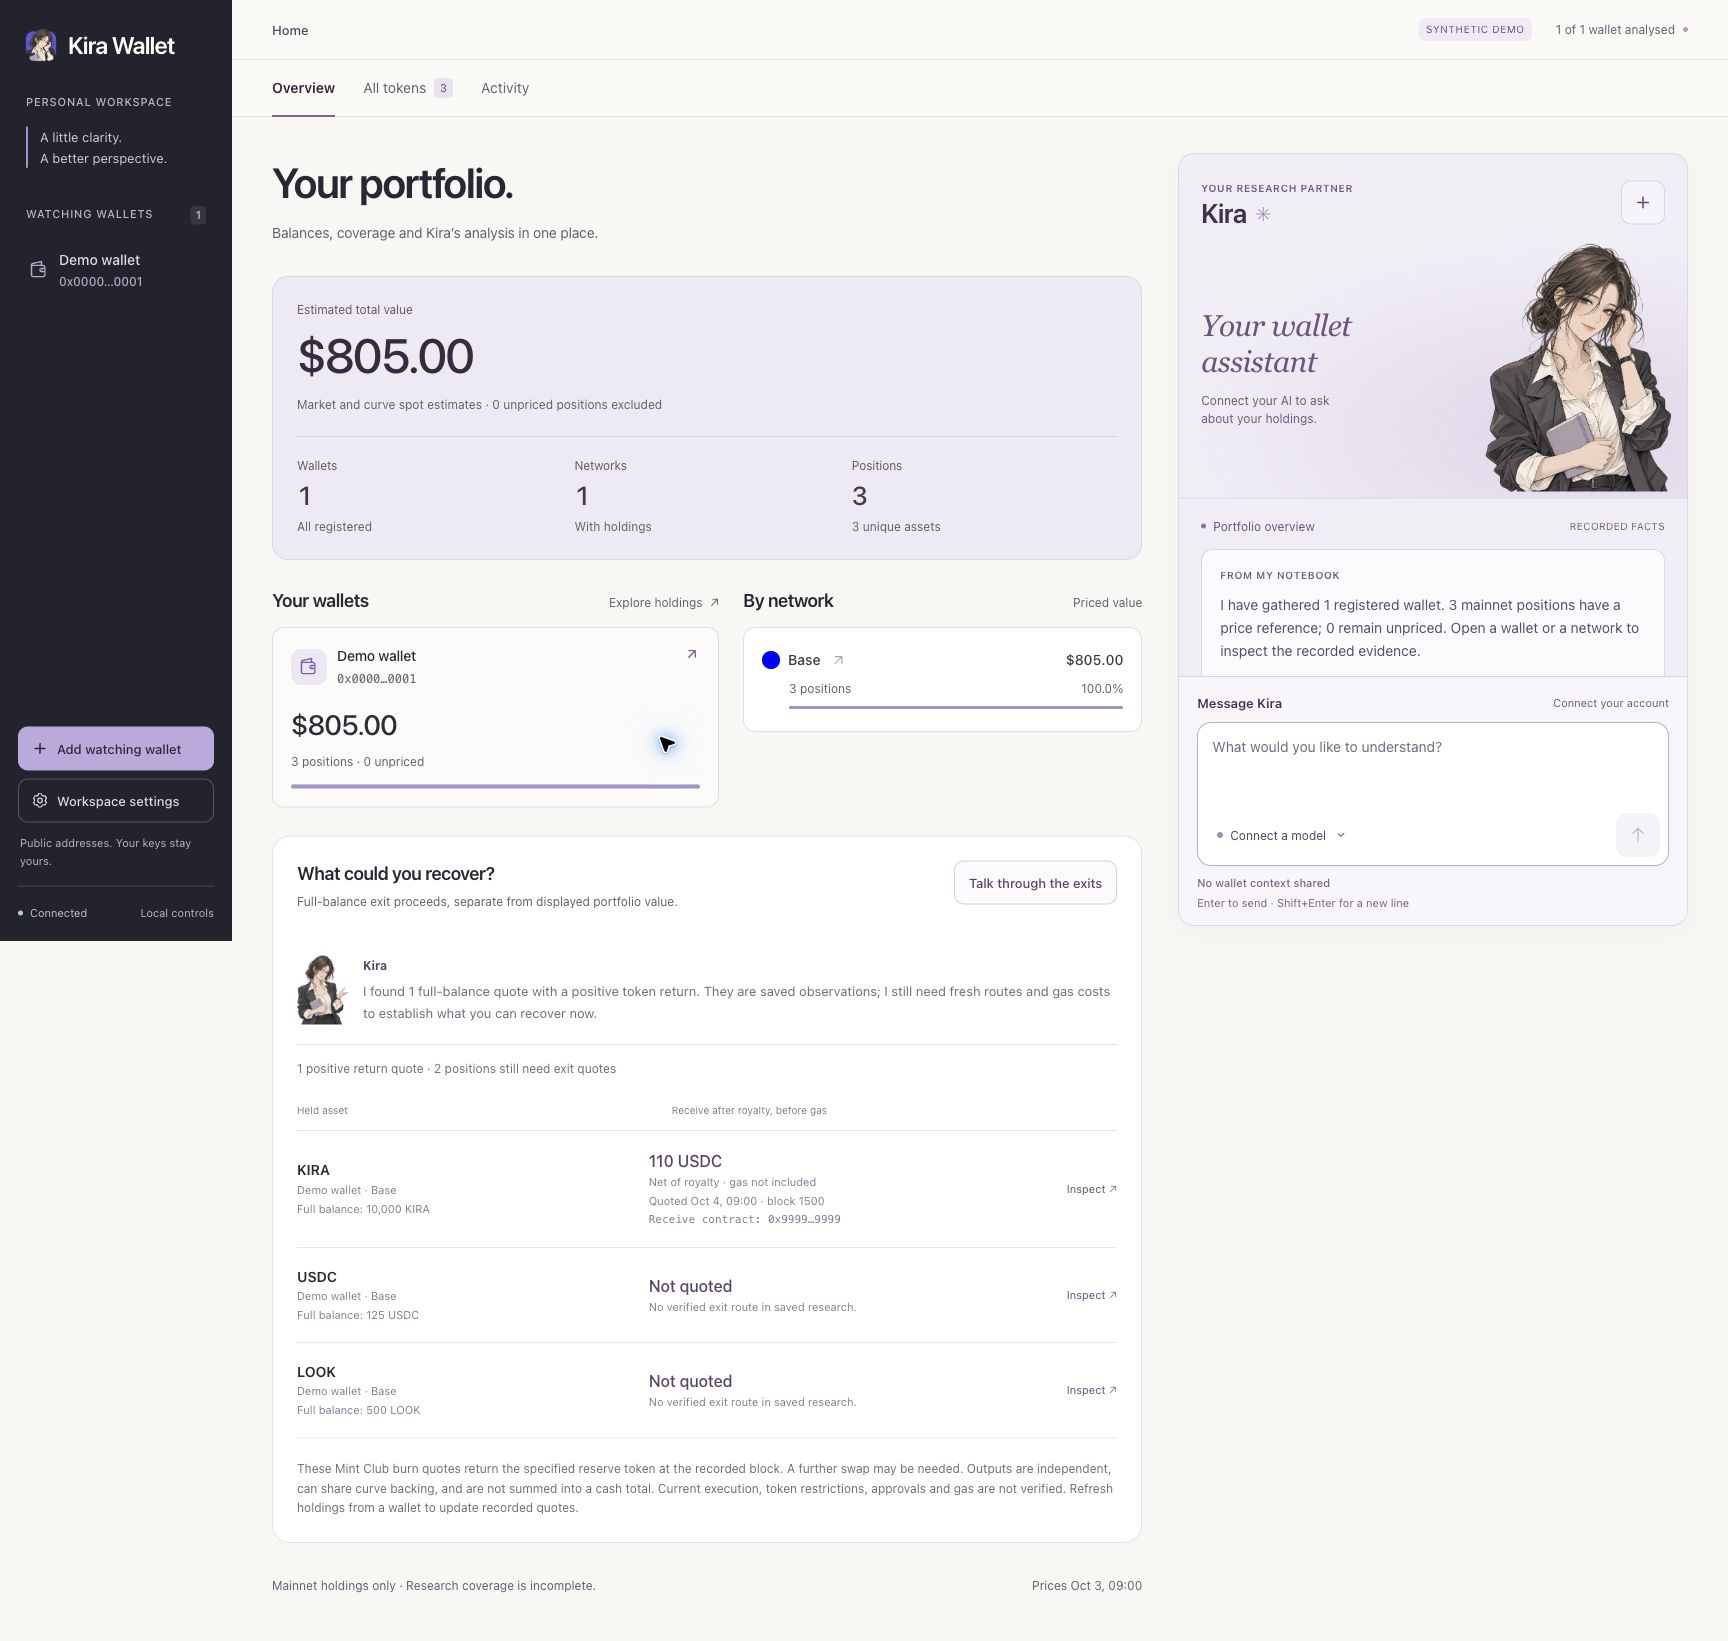
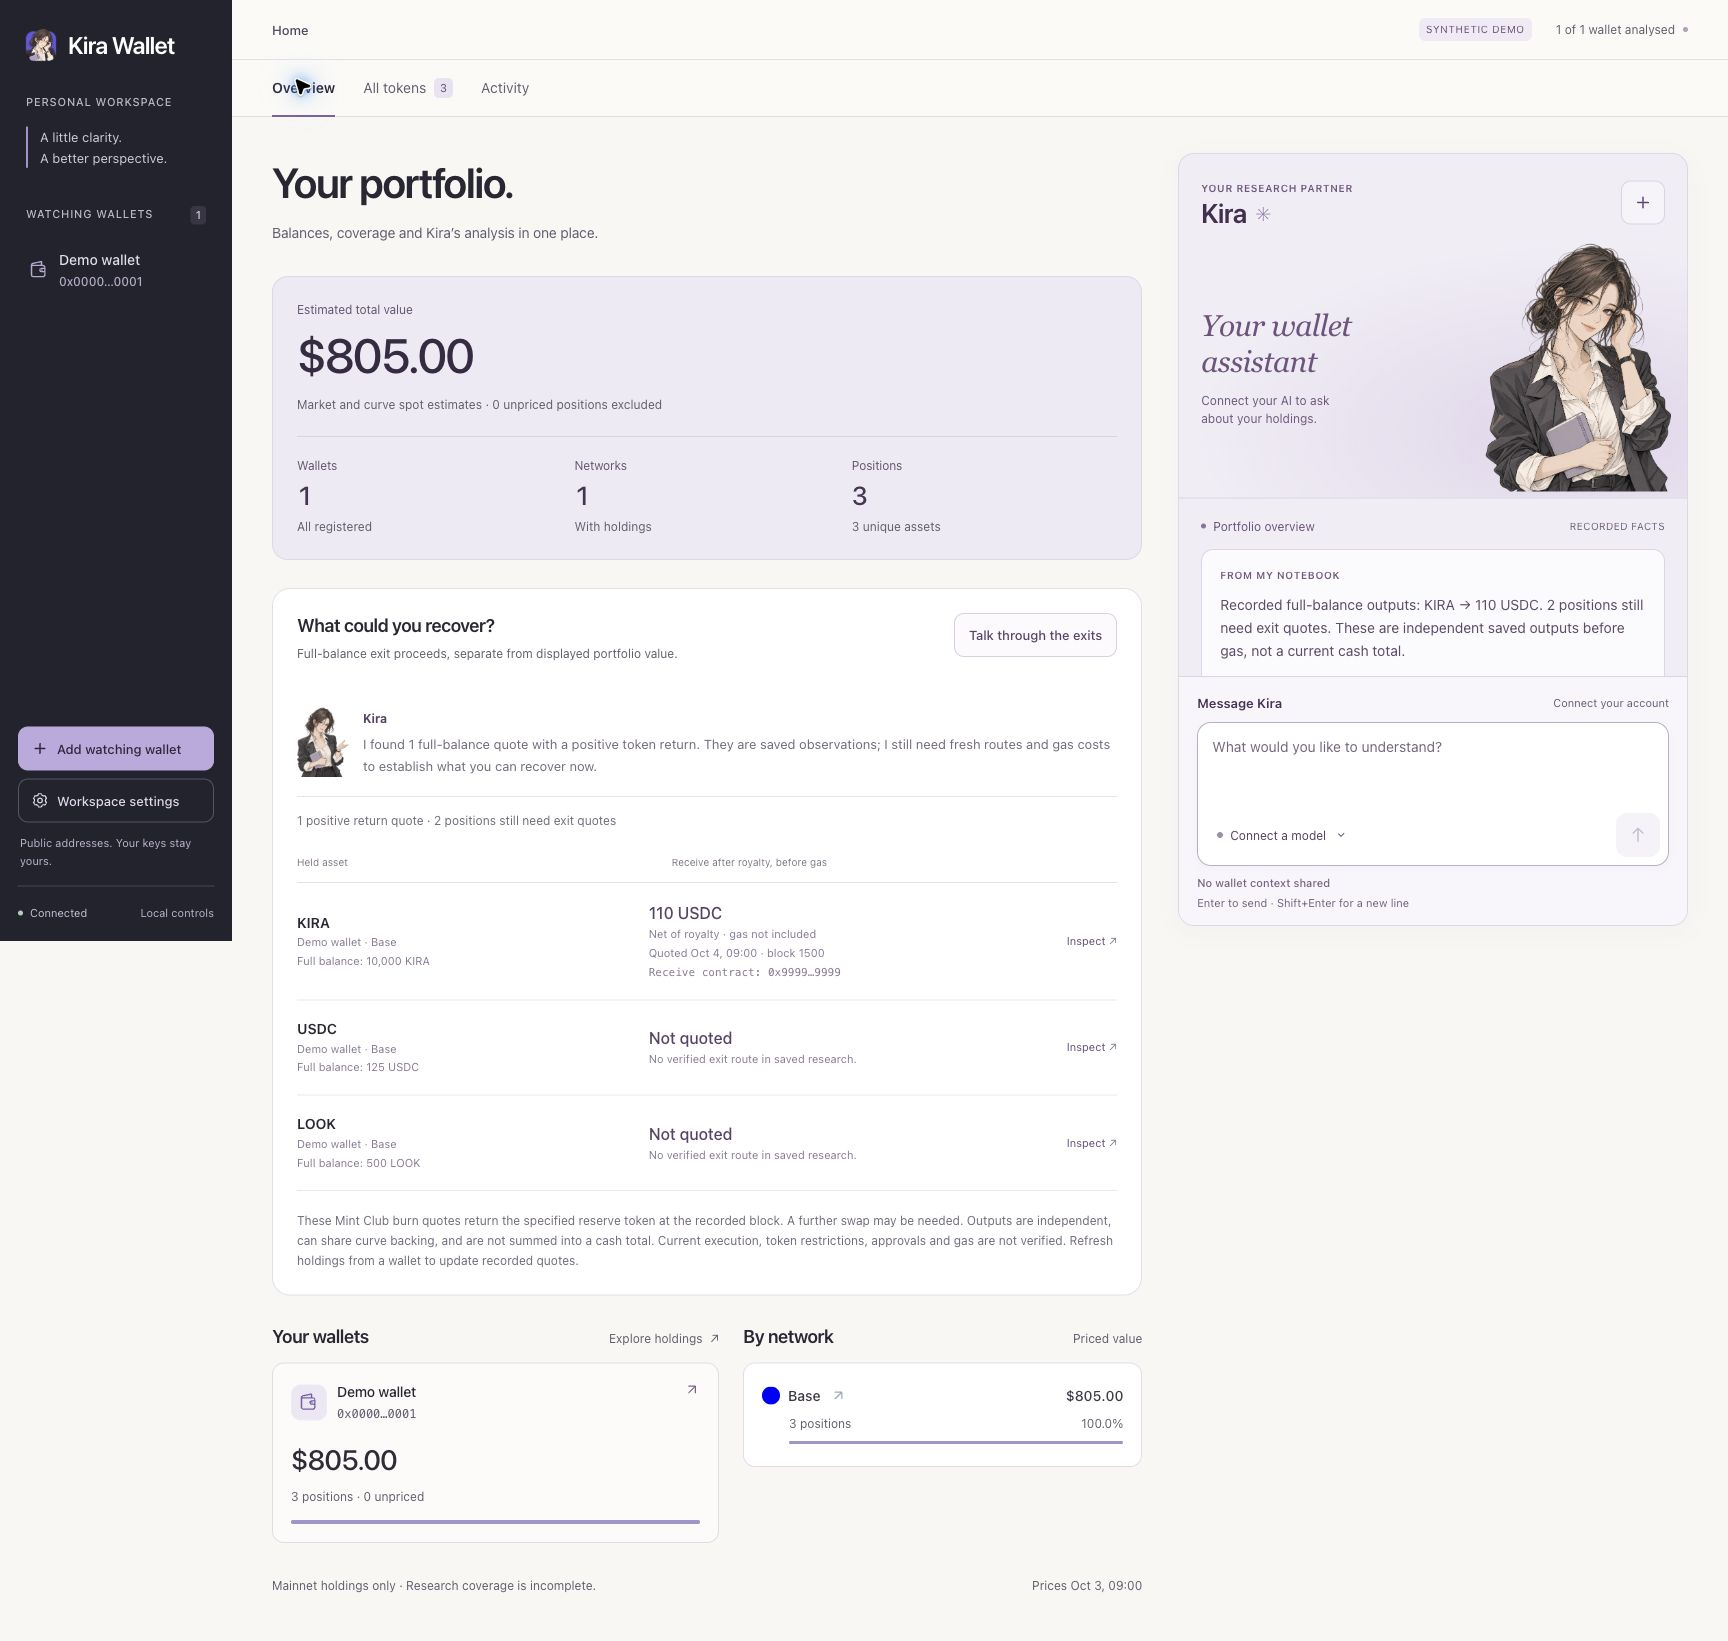
Recover setup readiness and preserve exact exit amounts on narrow screens

diff --git a/viewer/static/report.js b/viewer/static/report.js
@@ -1,5 +1,5 @@
 'use strict';
-let setupReadiness=null,setupLoading=false,reportLimit=6;
+let setupReadiness=null,setupLoading=false,setupUnavailable=false,setupRetryAfter=0,reportLimit=6;
 function exitRow(position){
   const a=position.asset,w=position.wallet,q=a.exit_quote;
   const network=state.details.networks.find(n=>n.id===a.chain_id)?.name||'Chain '+a.chain_id;
@@ -25,7 +25,7 @@ function renderSetupPath() {
   $('home-empty').hidden=wallet||!$('setup-path').hidden;
   $('setup-path').innerHTML='<details '+(!wallet?'open':'')+'><summary>'+ (wallet?'Finish your setup':'Set up your first wallet')+'</summary><div class="section-heading"><h2>'+ (wallet?'Finish your setup':'Start with one wallet')+'</h2><span class="section-note">Your keys stay yours</span></div><ol class="setup-checklist">'+
     '<li><span class="setup-check">'+(wallet?'✓':'1')+'</span><div><strong>Add a public wallet</strong><p>'+(wallet?'Saved locally.':'Paste an EVM address or choose a browser wallet. No signature or seed phrase.')+'</p></div><button class="quiet-button" id="setup-wallet" type="button">'+(wallet?'Add another':'Add wallet')+'</button></li>'+
-    '<li><span class="setup-check">'+(discovery?'✓':'2')+'</span><div><strong>Connect token discovery</strong><p>'+(discovery?'Indexer key detected. Actual chain coverage is confirmed by research results.':configured?'Indexer selected, but its key is unavailable. Use a private environment reference.':'Public RPC checks known assets. Connect an indexer for broader ERC20 discovery, or continue with limited coverage.')+'</p></div><button class="quiet-button" id="setup-discovery" type="button">Review connection</button></li>'+
+    '<li><span class="setup-check">'+(discovery?'✓':'2')+'</span><div><strong>Connect token discovery</strong><p>'+(!setupReadiness?(setupUnavailable?'Could not check the connection. Retrying…':'Checking the discovery connection…'):discovery?'Indexer key detected. Actual chain coverage is confirmed by research results.':configured?'Indexer selected, but its key is unavailable. Use a private environment reference.':'Public RPC checks known assets. Connect an indexer for broader ERC20 discovery, or continue with limited coverage.')+'</p></div><button class="quiet-button" id="setup-discovery" type="button">Review connection</button></li>'+
     '<li><span class="setup-check">'+(analysed?'✓':'3')+'</span><div><strong>Read your first report</strong><p>'+(analysed?'Saved balances, prices and coverage are ready.':'Adding a wallet starts one explicit research job. Follow its progress in Activity; gaps are shown in the report.')+'</p></div><a class="quiet-button" href="#/activity">View Activity</a></li>'+
     '<li><span class="setup-check">'+(ai?'✓':'4')+'</span><div><strong>Connect your AI <small>optional</small></strong><p>'+(ai?'Connected. Wallet context still follows your explicit permissions.':'Use your installed Codex or Claude account when you are ready. Tracking works without it.')+'</p></div><button class="quiet-button" id="setup-ai" type="button">'+(ai?'Permissions':'Connect AI')+'</button></li></ol></details>';
   $('setup-wallet').addEventListener('click',openAdd);
@@ -33,10 +33,10 @@ function renderSetupPath() {
   $('setup-ai').addEventListener('click',openAgent);
 }
 async function loadSetupReadiness(){
-  if(setupLoading||!localSession?.controls)return;setupLoading=true;
-  try{setupReadiness=await localAPI('/api/onboarding');renderSetupPath();}catch{/* Existing reconnect handling owns session recovery. */}finally{setupLoading=false;}
+  if(setupLoading||!localSession?.controls)return false;setupLoading=true;
+  try{setupReadiness=await localAPI('/api/onboarding');setupUnavailable=false;setupRetryAfter=0;renderSetupPath();return true;}catch{setupReadiness=null;setupUnavailable=true;setupRetryAfter=Date.now()+5000;renderSetupPath();return false;}finally{setupLoading=false;}
 }
 window.addEventListener('hashchange',()=>{if(selectedView==='home')renderReport();});
-const setupStartup=setInterval(()=>{if(state&&localSession?.controls){loadSetupReadiness();renderReport();clearInterval(setupStartup);}},1000);
+const setupStartup=setInterval(async()=>{if(state&&localSession?.controls&&!setupReadiness&&Date.now()>=setupRetryAfter){await loadSetupReadiness();renderReport();}},1000);
 
 document.addEventListener('visibilitychange',()=>document.body.classList.toggle('page-hidden',document.hidden));

diff --git a/viewer/static/app.js b/viewer/static/app.js
@@ -183,7 +183,7 @@ function accountCard(row,token){
   const a=row.asset,value=token?a?.value_usd:row.value_usd;
   const meta=token?(a?quantity(a.balance)+' '+escapeHTML(token.symbol):escapeHTML(row.status)):row.position_count+' positions · '+row.unpriced_count+' unpriced';
   const shareValue=token?share(value,token.value_usd):null;
-  const quote=a?.burn_quote?.net_refund!=null?`<div class="account-quote"><span>Recorded burn refund</span><strong>${quantity(a.burn_quote.net_refund)} ${escapeHTML(a.curve_reserve?.symbol||'')}</strong><small>At holdings analysis · net of creator royalty · excludes gas</small></div>`:'';
+  const quote=a?.exit_quote?`<div class="account-quote"><span>Recorded full-balance burn output</span><strong>${escapeHTML(a.exit_quote.output_amount)} ${escapeHTML(a.exit_quote.output_symbol)}</strong><small>${stamp(a.exit_quote.observed_at)} · block ${escapeHTML(a.exit_quote.block_number)} · net of royalty · excludes gas</small></div>`:'';
   const price=token?.environment==='testnet'?null:a?.price?.usd;
   return `<article class="account-card"><a class="account-card-heading" href="#/wallet/${escapeHTML(row.key)}"><span class="card-wallet-icon">${walletGlyph}</span><span class="wallet-card-identity"><strong>${escapeHTML(row.name)}</strong><span>${escapeHTML(shortAddress(row.address))}</span></span><span class="card-arrow" aria-hidden="true">${arrowGlyph}</span></a><div class="account-value">${money(value)}</div><div class="account-meta">${meta}</div>${token&&a?`<dl class="account-facts"><div><dt>Recorded price</dt><dd>${unitPrice(price)} <span>${escapeHTML(token.environment==='testnet'?'Testnet':a.price?.basis||'No price')}</span></dd></div><div><dt>Share of priced holdings</dt><dd>${shareValue}</dd></div></dl>${quote}`:''}<div class="account-footnote"><span>${escapeHTML(row.coverage)}</span><span>Analysis ${stamp(row.analysed_at)}</span>${token&&a?`<span>Price ${a.price?.observed_at?stamp(a.price.observed_at):'not recorded'}</span>`:''}</div></article>`;
 }

diff --git a/viewer/static/workspace.js b/viewer/static/workspace.js
@@ -71,6 +71,10 @@ function renderBriefing() {
     const selected = selectedView === 'wallet' ? [currentWallet()].filter(Boolean) : state.wallets;
     const missing = selected.flatMap(w => w.chains.filter(c => c.environment === 'mainnet' && (!c.complete || !c.rpc_available)).map(c => w.name + ' · ' + c.name + (!c.rpc_available ? ': RPC unavailable' : ': incomplete discovery')));
     $('kira-note-text').textContent = missing.length ? 'These recorded coverage gaps need a closer look: ' + missing.slice(0, 6).join('; ') + (missing.length > 6 ? '; and ' + (missing.length - 6) + ' more.' : '.') + ' Missing data does not mean zero holdings.' : 'No mainnet coverage gaps are flagged in this recorded view. This does not prove that every possible token has been discovered.';
+  } else if (selectedView === 'home' && state.wallets.length) {
+    const exits = KiraView.report(state);
+    const returns = exits.positive.slice(0, 3).map(p => p.asset.symbol + ' → ' + p.asset.exit_quote.output_amount + ' ' + p.asset.exit_quote.output_symbol);
+    $('kira-note-text').textContent = (returns.length ? 'Recorded full-balance outputs: ' + returns.join('; ') + '. ' : 'No full-balance positive exit quotes are recorded yet. ') + exits.unquoted.length + ' positions still need exit quotes. These are independent saved outputs before gas, not a current cash total.';
   } else if (selectedView === 'tokens') {
     const tokens = state.details.tokens.filter(t => t.environment !== 'testnet');
     $('kira-note-text').textContent = `There are ${tokens.length} recorded mainnet tokens. ${tokens.filter(t => t.value_usd == null || t.unpriced_count > 0).length} have unpriced amounts. I keep tokens on different networks separate, even when their symbols match.`;

diff --git a/viewer/static/report.css b/viewer/static/report.css
@@ -1,7 +1,7 @@
 .brand-wordmark{font-size:24px;white-space:nowrap;line-height:1.2;letter-spacing:-.035em}
 .brand{gap:10px}
 .brand-logo{width:34px;height:34px}
-.analysis-report{margin-top:28px;padding:24px;border:1px solid var(--line,#ddd5e5);border-radius:18px;background:#fff}
+.analysis-report{margin:28px 0;padding:24px;border:1px solid var(--line,#ddd5e5);border-radius:18px;background:#fff}
 .analysis-report .section-heading{align-items:flex-start}
 .analysis-report .section-note{display:block;margin-top:6px}
 .report-note{font-size:12px;line-height:1.65;color:#756b7f;margin:20px 0 0}
@@ -68,7 +68,7 @@ body.page-hidden .kira-scene img{animation:none!important}
 .exit-kira p{font-size:13px;line-height:1.7;margin:0;color:#756b7f}
 .exit-kira strong{display:block;color:#584366;font-size:12px;margin-bottom:4px}
 .exit-summary{font-size:12px;color:#756b7f;padding:14px 0;border-top:1px solid #e6e0eb}
-.exit-columns,.exit-row{display:grid;grid-template-columns:1fr 1.2fr auto;gap:20px}
+.exit-columns,.exit-row{display:grid;grid-template-columns:minmax(0,1fr) minmax(0,1.2fr) auto;gap:20px}
 .exit-columns{padding:12px 0;font-size:10px;color:#86798d;border-bottom:1px solid #e6e0eb}
 .exit-row{padding:18px 0;border-bottom:1px solid #ece7ef;align-items:center}
 .exit-row small,.exit-row span{display:block;font-size:11px;line-height:1.7;color:#8b7b95}
@@ -85,3 +85,6 @@ body.page-hidden .kira-scene img{animation:none!important}
 .exit-kira{align-items:flex-start}
 .exit-kira img{width:42px;height:60px}
 }
+
+.exit-row>div{min-width:0;overflow-wrap:anywhere}.exit-receive strong{overflow-wrap:anywhere}
+.account-quote strong{overflow-wrap:anywhere}

diff --git a/viewer/static/index.html b/viewer/static/index.html
@@ -39,11 +39,11 @@
           <section id="setup-path" class="setup-path" aria-label="Wallet setup checklist" hidden></section>
           <div id="home-empty" class="empty" hidden><img src="/kira-logo.png" width="64" height="64" alt=""><h3>Your notebook starts with a wallet.</h3><p>Use a public EVM address and a name you recognise. You keep your keys.</p><button id="empty-add-wallet" class="primary-button" hidden>Add your first wallet</button></div>
           <div id="home-details">
+            <section id="home-report" class="analysis-report" aria-label="Recorded portfolio analysis"></section>
             <div class="dashboard-grid">
               <section class="dashboard-panel" aria-labelledby="home-wallets-title"><div class="section-heading"><h2 id="home-wallets-title">Your wallets</h2><span class="section-note">Explore holdings <span aria-hidden="true">↗</span></span></div><div id="wallet-cards" class="wallet-cards"></div></section>
               <section class="dashboard-panel" aria-labelledby="home-networks-title"><div class="section-heading"><h2 id="home-networks-title">By network</h2><span class="section-note">Priced value</span></div><div id="network-allocation" class="network-allocation"></div></section>
             </div>
-            <section id="home-report" class="analysis-report" aria-label="Recorded portfolio analysis"></section>
           </div>
           <footer class="page-footer home-footer"><span id="home-coverage-note"></span><span id="home-price-time"></span></footer>
         </div>

diff --git a/site/proposal.js b/site/proposal.js
@@ -1,7 +1,7 @@
 'use strict';
 const scenes=[
  {title:'A return, not a sticker price.',detail:'The full-balance burn quote returns USDC. Another token still needs a sell route.',line:'The recorded quote returns 110 USDC before gas. That is different from a token’s displayed market value.',context:'Sample: full-balance burn quote'},
- {title:'A price is not an exit.',detail:'The displayed price does not tell us what a full sale returns. This token still needs an exact sell quote and gas estimate.',line:'This token has a market price, but I cannot confirm its recoverable value. I’ll keep that difference visible.',context:'Sample: unquoted exit'},
+ {title:'LOOK has a price, not a quote.',detail:'The other holding, LOOK, still needs a full-balance sell route and gas estimate. Its displayed price is not recoverable value.',line:'KIRA has a saved return quote. LOOK does not. I’ll keep that difference visible while we check its exit route.',context:'Sample: unquoted LOOK position'},
  {title:'Your account. Your context.',detail:'Connect your own Codex or Claude CLI. Choose which wallet facts may reach its model service.',line:'Connect your own AI account when you’re ready. You choose what I can see. Your keys stay with you.',context:'Sample: explicit permissions'}
 ];
 let current=0,speechTimer;

diff --git a/docs/KIRA_COMPANION_COMPLETION.md b/docs/KIRA_COMPANION_COMPLETION.md
@@ -63,7 +63,7 @@ is in `docs/character/companion-motion-generation.json`. Motion pauses through a
 user control, reduced-motion preference and hidden-page handling. This is a
 sample interaction with synthetic data, not a live AI service or audio avatar.
 
-Preview: https://kira-wallet-3ia9hqew4-project7s-projects.vercel.app/proposal
+Preview: https://kira-wallet-ccma9rk07-project7s-projects.vercel.app/proposal
 The public landing page keeps the restored design. The proposal is a separate
 route and preview, so rejecting it does not require another app redesign rollback.
 Its local script is permitted only on the proposal document. The landing page
@@ -78,6 +78,9 @@ Clean package installation passes with 62 archive members. The public-history
 scan and exact reviewed source are recorded before integration and packing. Browser checks cover first
 wallet actions, genuine Markdown output, exit-report links,
 one-line branding, desktop/mobile layout and companion scene/motion controls.
+A 313-character exact positive output was checked at 390 pixels without horizontal
+overflow. Readiness retries transient failures and shows unavailable state separately
+from an unconfigured indexer. Token details use the same validated quote as home.
 Public screenshots contain synthetic portfolios or generic no-context text.
 
 The actual MetaMask address-sharing request is prepared in Chrome on the isolated

diff --git a/docs/ONBOARDING_CHAT_CONTRACT.md b/docs/ONBOARDING_CHAT_CONTRACT.md
@@ -41,4 +41,4 @@ aliases retain one canonical wallet and one published research run. Repeating th
 original request reuses its job. Portfolio identifiers and raw acceptance evidence
 stay outside Git and are not included in public reports.
 
-Current candidate verification and operator gates are in [the completion report](KIRA_COMPANION_COMPLETION.md).
+Current candidate verification and operator gates are in [the completion report](https://github.com/realproject7/kira-wallet/blob/codex/kira-release/docs/KIRA_COMPANION_COMPLETION.md).

diff --git a/docs/RELEASE.md b/docs/RELEASE.md
@@ -55,4 +55,4 @@ acceptance check. Synthetic providers and supplied public addresses do not
 establish that native extension acceptance passed. Those actions still require
 the operator's device handoff. No signing, trading or custody capability was added.
 
-See [completion evidence and limits](KIRA_COMPANION_COMPLETION.md).
+See [completion evidence and limits](https://github.com/realproject7/kira-wallet/blob/codex/kira-release/docs/KIRA_COMPANION_COMPLETION.md).
